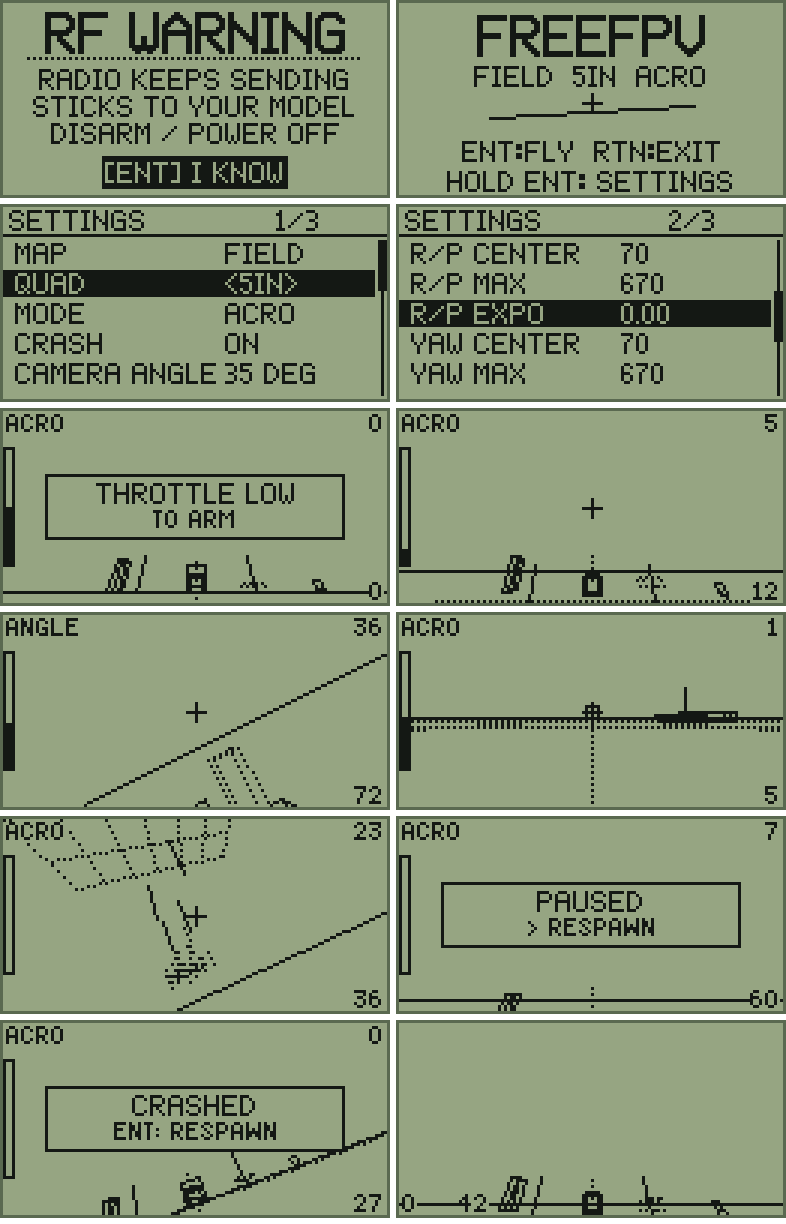
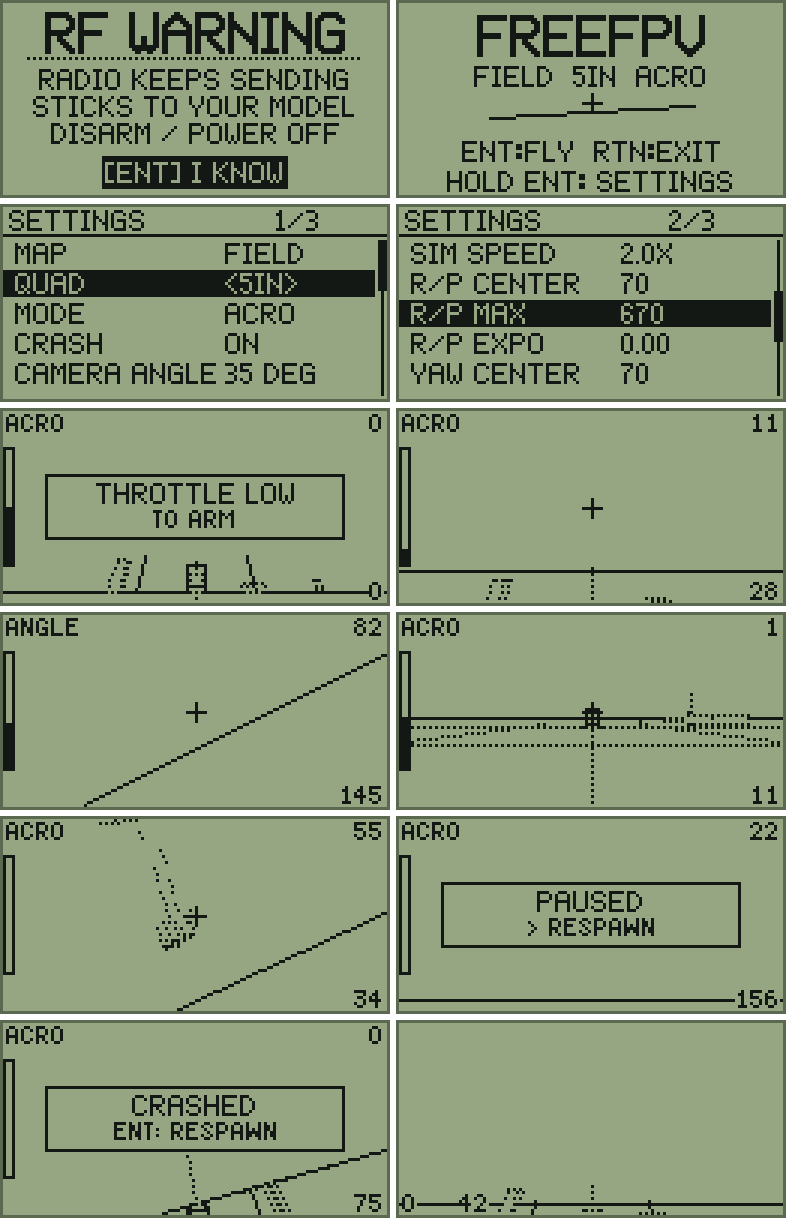
docs(readme): document SIM SPEED, solid buildings and new numbers

diff --git a/README.md b/README.md
@@ -49,7 +49,10 @@ Sticks are read by function (`ail`, `ele`, `thr`, `rud`), so your radio's own st
   (`rate = x·center + (max − center)·|x|·(x⁵·expo + x·(1 − expo))`); centred sticks keep the current angle.
 - **ANGLE:** self-levelling; the roll/pitch sticks set a tilt up to 55°. Yaw is still a rate.
 - Thrust along the quad's up axis, gravity, drag (linear + quadratic → a top speed), air-mode style (rates work
-  at zero throttle). Physics runs 4 × per 50 ms frame.
+  at zero throttle).
+- **SIM SPEED** (default **2.0×**) runs all movement — gravity, thrust, drag, speed — faster than real time, so
+  falls and dives feel like a real quad. Rotation stays real time: your rates mean exactly what they say.
+  Physics runs 4 × SIM SPEED steps per 50 ms frame (collisions stay exact at any speed).
 - **Ground:** a soft touchdown lands (settles level). With **CRASH ON**, hitting the ground hard (fast, steep or
   tilted) or touching an obstacle is a crash → respawn. A **whoop bounces** off obstacles instead (ducts).
   With **CRASH OFF** you slide along obstacles and never crash.
@@ -76,8 +79,9 @@ Sticks are read by function (`ail`, `ele`, `thr`, `rud`), so your radio's own st
 
 ## Screen
 
-Horizon (solid line, rolls with you), dotted ground grid around you, obstacles in wireframe (solid when near,
-dotted far). HUD: crosshair, throttle bar (left), ACRO/ANGLE, altitude in m (top right), speed in km/h (bottom
+Horizon (solid line, rolls with you), dotted ground grid around you, obstacles drawn **solid**: everything is
+drawn far to near and each box hides what is behind it (grid, horizon, other buildings); only the faces you can
+see get their edges drawn. Near objects have solid edges, far ones dotted; gates stay see-through. HUD: crosshair, throttle bar (left), ACRO/ANGLE, altitude in m (top right), speed in km/h (bottom
 right). DEBUG adds the Lua CPU use (`getUsage()`, %) and the Lua memory in KB at the bottom left — read them on
 your radio and tell me if the CPU % gets high.
 
@@ -90,6 +94,7 @@ your radio and tell me if the CPU % gets high.
 | MODE | ACRO / ANGLE | ACRO |
 | CRASH | ON / OFF | ON |
 | CAMERA ANGLE | 0–60°, step 5 | 35° |
+| SIM SPEED | 1.0×–3.0×, step 0.5 (movement speed; rotation stays real time) | 2.0× |
 | R/P CENTER, R/P MAX, R/P EXPO | 10–400 °/s · 100–1800 °/s · 0.00–1.00 | 70 · 670 · 0.00 (Betaflight defaults) |
 | YAW CENTER, YAW MAX, YAW EXPO | same | 70 · 670 · 0.00 |
 | HUD | ON / OFF | ON |

diff --git a/docs/DECISIONS.md b/docs/DECISIONS.md
@@ -27,3 +27,11 @@ One line each: what — why — discarded alternative.
 - Maps are loaded with `use(name, true)`: the data is copied into the world arrays and the map file is not kept.
 - DEBUG shows `getUsage()` and `collectgarbage("count")` with `lcd.drawNumber` (no string building per frame); the test harness fixes the memory number so goldens stay deterministic.
 - Lap timer on GATES: not built (the player said not needed).
+
+## After the first real-radio test (user feedback)
+
+- "Everything 2x faster, especially falling": SIM SPEED (default 2.0x) scales simulated time for movement only (gravity, thrust, drag, position); rotation and rate lag stay real time so Betaflight rates keep their meaning — doubling gravity/top speeds per quad (would need retuning every quad) / a global time scale (would double the rates too).
+- Movement substeps stay 12.5 ms of simulated time (collision-safe), so there are 4 x SIM SPEED substeps per frame; a per-frame broad phase keeps only the boxes within reach so the extra substeps don't multiply collision work.
+- Solid buildings: painter's algorithm (objects sorted far to near by insertion sort — no table library), each box's visible faces (camera on the outer side of the face plane) are near-clipped, projected and merged into one span per screen row (a box's outline is convex), erased with horizontal lines, then only the visible faces' edges are drawn — a z-buffer (no pixel access) / per-face fills (2–3x the rows: CITY worst 425 calls vs 290).
+- 3D budget raised to 400 lcd calls (most are horizontal erase lines, the cheapest primitive); measured worst: CITY 290, soak max 315 per frame including the HUD.
+- Known painter limits: very large boxes next to small ones can sort wrong at some angles (sorted by centre distance); gates stay see-through on purpose.

diff --git a/docs/PERF.md b/docs/PERF.md
@@ -1,5 +1,9 @@
 # Performance and memory
 
+> **Update (SIM SPEED 2x + solid buildings):** render.lua compiles with 64.5 KB of allocations (GateRush's 69 KB
+> pieces compile on a GX12), flying heap 90.5 KB, worst CITY view 290 lcd calls (edges + erase rows), soak max
+> 315 per frame. Physics does 8 substeps per frame at 2.0x but only against nearby boxes.
+
 PC measurements (Lua 5.2 64-bit with debug info; the radio stores compiled files without debug info and uses
 32-bit pointers, so its numbers are lower, but the comparisons hold). `lua5.2 tools/memory.lua`:
 
